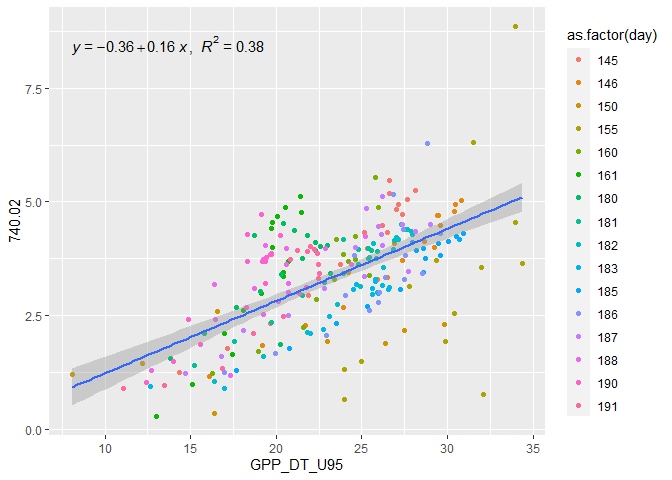
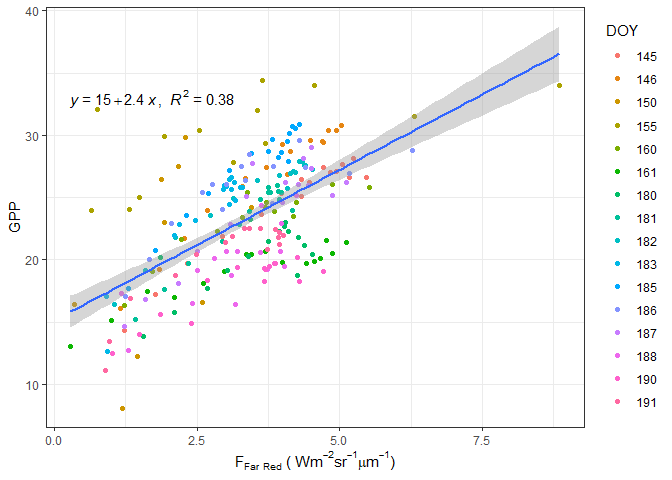
new changes

diff --git a/README.md b/README.md
@@ -47,7 +47,7 @@ psd_table <- psd_table |>
     & day!=168 & day!=192  # criteria i
     & day!= 147 & day != 148 & day!=149  & day!=157 & day!=163
     & day!=172 & day!=175 & day!=176 & day!=179 & day!=184 & day!=189
-    & day!=193
+    & day!=193 & day!= 199 & day!=200 & day!=201
   )
 ```
 
@@ -84,7 +84,7 @@ for(i in 2:length(result)){
   }
 }
 
-row.names(fint) <- seq(1:366)
+row.names(fint) <- seq(1:(nrow(fint)))
 colnames(fint) <- "Fint"
 
 ## Now we are gonna add the integral in the final dataset
@@ -92,14 +92,14 @@ colnames(fint) <- "Fint"
 psd_table <- cbind(psd_table,fint)
 
 ######
-fint_t <- vector("numeric", length = 367)
+fint_t <- vector("numeric", length = ncol(spect_tab))
 
-fint_t[2:367] <- t(fint)
+fint_t[2:ncol(spect_tab)] <- t(fint)
 
 spect_tab[683, ] <- fint_t
 
-gpp <- vector("numeric", length =367)
-gpp[2:367] <- psd_table$GPP_DT_U95
+gpp <- vector("numeric", length = ncol(spect_tab))
+gpp[2:ncol(spect_tab)] <- psd_table$GPP_DT_U95
 spect_tab[684, ] <- gpp
 
 for(i in 2:ncol(spect_tab)){
@@ -139,7 +139,9 @@ correl[,2] <- spect_tab$spect
 correl[-c(683:684),] |>
   ggplot2::ggplot(ggplot2::aes(x=as.numeric(V2), y = cor))+
   ggplot2::geom_point()+
-  ggplot2::xlab(label="Fluorescence Spectra in nm")
+  ggplot2::xlab(label="Fluorescence Spectra in nm")+
+  ggplot2::ylab(label="Pearson's Correlation")+
+  ggplot2::theme_classic()
 ```
 
 ![](README_files/figure-gfm/unnamed-chunk-5-1.png)<!-- -->
@@ -206,11 +208,13 @@ csd_table <- readr::read_rds("data-raw/base_csd.rds")
 
 ``` r
 csd_table |> 
-  ggplot2::ggplot(ggplot2::aes(x=GPP_DT_U95, y= Fint))+
+  ggplot2::ggplot(ggplot2::aes(x=Fint,y=GPP_DT_U95))+
   ggplot2::geom_jitter(ggplot2::aes(colour=as.factor(day)))+
   ggplot2::geom_smooth(method = "lm")+
   ggpubr::stat_regline_equation(ggplot2::aes(
-  label =  paste(..eq.label.., ..rr.label.., sep = "*plain(\",\")~~")))
+  label =  paste(..eq.label.., ..rr.label.., sep = "*plain(\",\")~~")))+
+  ggplot2::labs(colour="DOY", x =expression(paste("F" [integral]," ( ",Wm^-2, sr^-1,mu,m^-1,")")), y= "GPP")+
+  ggplot2::theme_bw()
 ```
 
 ![](README_files/figure-gfm/unnamed-chunk-9-1.png)<!-- -->
@@ -224,11 +228,13 @@ psd_table |> dplyr::mutate(
     )
   ) |>
   dplyr::filter(Period == "A" | Period == "B") |>
-  ggplot2::ggplot(ggplot2::aes(x=GPP_DT_U95, y= Fint))+
+  ggplot2::ggplot(ggplot2::aes(x=Fint,y=GPP_DT_U95))+
   ggplot2::geom_jitter(ggplot2::aes(colour=as.factor(day)))+
   ggplot2::geom_smooth(method = "lm")+
   ggpubr::stat_regline_equation(ggplot2::aes(
-  label =  paste(..eq.label.., ..rr.label.., sep = "*plain(\",\")~~")))
+  label =  paste(..eq.label.., ..rr.label.., sep = "*plain(\",\")~~")))+
+  ggplot2::labs(colour="DOY", x =expression(paste("F" [integral]," ( ",Wm^-2, sr^-1,mu,m^-1,")")), y= "GPP")+
+  ggplot2::theme_bw()
 ```
 
 ![](README_files/figure-gfm/unnamed-chunk-10-1.png)<!-- -->
@@ -237,11 +243,13 @@ psd_table |> dplyr::mutate(
 
 ``` r
 csd_table |> 
-  ggplot2::ggplot(ggplot2::aes(x=GPP_DT_U95, y= `685.09`))+
+  ggplot2::ggplot(ggplot2::aes(y=GPP_DT_U95, x= `685.09`))+
   ggplot2::geom_jitter(ggplot2::aes(colour=as.factor(day)))+
   ggplot2::geom_smooth(method = "lm")+
   ggpubr::stat_regline_equation(ggplot2::aes(
-  label =  paste(..eq.label.., ..rr.label.., sep = "*plain(\",\")~~")))
+  label =  paste(..eq.label.., ..rr.label.., sep = "*plain(\",\")~~")))+
+  ggplot2::labs(colour="DOY", x =expression(paste("F"[red]," ( ",Wm^-2, sr^-1,mu,m^-1,")")), y= "GPP")+
+  ggplot2::theme_bw()
 ```
 
 ![](README_files/figure-gfm/unnamed-chunk-11-1.png)<!-- -->
@@ -256,11 +264,13 @@ psd_table |>
     )
   ) |>
   dplyr::filter(Period == "A" | Period == "B") |>
-  ggplot2::ggplot(ggplot2::aes(x=GPP_DT_U95, y= `685.09`))+
+  ggplot2::ggplot(ggplot2::aes(y=GPP_DT_U95, x= `685.09`))+
   ggplot2::geom_jitter(ggplot2::aes(colour=as.factor(day)))+
   ggplot2::geom_smooth(method = "lm")+
   ggpubr::stat_regline_equation(ggplot2::aes(
-  label =  paste(..eq.label.., ..rr.label.., sep = "*plain(\",\")~~")))
+  label =  paste(..eq.label.., ..rr.label.., sep = "*plain(\",\")~~")))+
+  ggplot2::labs(colour="DOY", x =expression(paste("F"[red]," ( ",Wm^-2, sr^-1,mu,m^-1,")")), y= "GPP")+
+  ggplot2::theme_bw()
 ```
 
 ![](README_files/figure-gfm/unnamed-chunk-12-1.png)<!-- -->
@@ -269,11 +279,13 @@ psd_table |>
 
 ``` r
 csd_table |> 
-  ggplot2::ggplot(ggplot2::aes(x=GPP_DT_U95, y= `740.02`))+
+  ggplot2::ggplot(ggplot2::aes(y=GPP_DT_U95, x= `740.02`))+
   ggplot2::geom_jitter(ggplot2::aes(colour=as.factor(day)))+
   ggplot2::geom_smooth(method = "lm")+
   ggpubr::stat_regline_equation(ggplot2::aes(
-  label =  paste(..eq.label.., ..rr.label.., sep = "*plain(\",\")~~")))
+  label =  paste(..eq.label.., ..rr.label.., sep = "*plain(\",\")~~")))+
+  ggplot2::labs(colour="DOY", x =expression(paste("F"[Far]," "[Red]," ( ",Wm^-2, sr^-1,mu,m^-1,")")), y= "GPP")+
+  ggplot2::theme_bw()
 ```
 
 ![](README_files/figure-gfm/unnamed-chunk-13-1.png)<!-- -->
@@ -288,11 +300,13 @@ psd_table |>
     )
   ) |>
   dplyr::filter(Period == "A" | Period == "B") |>
-  ggplot2::ggplot(ggplot2::aes(x=GPP_DT_U95, y= `740.02`))+
+  ggplot2::ggplot(ggplot2::aes(y=GPP_DT_U95, x= `740.02`))+
   ggplot2::geom_jitter(ggplot2::aes(colour=as.factor(day)))+
   ggplot2::geom_smooth(method = "lm")+
   ggpubr::stat_regline_equation(ggplot2::aes(
-  label =  paste(..eq.label.., ..rr.label.., sep = "*plain(\",\")~~")))
+  label =  paste(..eq.label.., ..rr.label.., sep = "*plain(\",\")~~")))+
+  ggplot2::labs(colour="DOY", x =expression(paste("F"[Far]," "[Red]," ( ",Wm^-2, sr^-1,mu,m^-1,")")), y= "GPP")+
+  ggplot2::theme_bw()
 ```
 
 ![](README_files/figure-gfm/unnamed-chunk-14-1.png)<!-- -->
@@ -315,7 +329,8 @@ psd_table|>
   ggplot2::geom_smooth(method = "lm")+
   ggpubr::stat_regline_equation(ggplot2::aes(
   label =  paste(..eq.label.., ..rr.label.., sep = "*plain(\",\")~~")))+
-  ggplot2::theme_classic()
+  ggplot2::labs( x =expression(paste("F"[integral]," ( ",Wm^-2, sr^-1,mu,m^-1,")")), y= "GPP")+
+  ggplot2::theme_bw()
 ```
 
 ![](README_files/figure-gfm/unnamed-chunk-15-1.png)<!-- -->
@@ -324,11 +339,13 @@ psd_table|>
 
 ``` r
 csd_table |> 
-  ggplot2::ggplot(ggplot2::aes(x=Fy, y= LUE))+
+  ggplot2::ggplot(ggplot2::aes(y=Fy, x= LUE))+
   ggplot2::geom_jitter(ggplot2::aes(colour=as.factor(day)))+
   ggplot2::geom_smooth(method = "lm")+
   ggpubr::stat_regline_equation(ggplot2::aes(
-  label =  paste(..eq.label.., ..rr.label.., sep = "*plain(\",\")~~")))
+  label =  paste(..eq.label.., ..rr.label.., sep = "*plain(\",\")~~")))+
+  ggplot2::labs(colour="DOY", y =expression('F'[yield]), x= "LUE")+
+  ggplot2::theme_bw()
 ```
 
 ![](README_files/figure-gfm/unnamed-chunk-16-1.png)<!-- -->
@@ -344,13 +361,14 @@ psd_table |>
   ) |>
   dplyr::filter(Period == "A" | Period == "B") |>
   dplyr::filter(LUE > 0) |>
-  ggplot2::ggplot(ggplot2::aes(x=Fy, y= LUE))+
+  ggplot2::ggplot(ggplot2::aes(y=Fy, x= LUE))+
   ggplot2::geom_jitter(ggplot2::aes(colour=as.factor(day)))+
   ggplot2::geom_smooth(method = "lm")+
   ggpubr::stat_regline_equation(ggplot2::aes(
   label =  paste(..eq.label.., ..rr.label.., sep = "*plain(\",\")~~")))+
-   ggplot2::xlim(0,3)+
-  ggplot2::ylim(0,.5)+
+  ggplot2::labs(colour="DOY", y =expression('F'[yield]), x= "LUE")+
+   ggplot2::xlim(0,.5)+
+  ggplot2::ylim(0,3)+
   ggplot2::theme_bw()
 ```
 
@@ -542,7 +560,8 @@ And here we can made some plots to see how our data is now
 correl[-c(683:684),] |>
   ggplot2::ggplot(ggplot2::aes(x=as.numeric(V2), y = cor))+
   ggplot2::geom_point()+
-  ggplot2::xlab(label="Fluorescence Spectra in nm")
+  ggplot2::labs(x="Fluorescence Spectra in nm", y="Pearson's Correlation")+
+  ggplot2::theme_classic()
 ```
 
 ![](README_files/figure-gfm/unnamed-chunk-25-1.png)<!-- -->
@@ -571,13 +590,15 @@ df_tab <- df_final|>
 
 df_tab |> 
   dplyr::mutate(
-    Frc_y= `685.09`/csd_table$aPAR,
+    Frc_y= Fint/csd_table$aPAR,
     Fy = csd_table$Fy) |> 
   ggplot2::ggplot(ggplot2::aes(x=Fy, y=Frc_y))+
   ggplot2::geom_jitter(ggplot2::aes(col=as.factor(day)))+
   ggplot2::geom_smooth(method = "lm")+
   ggpubr::stat_regline_equation(ggplot2::aes(
-    label =  paste(..eq.label.., ..rr.label.., sep = "*plain(\",\")~~")))
+    label =  paste(..eq.label.., ..rr.label.., sep = "*plain(\",\")~~")))+
+  ggplot2::labs(colour="DOY",x=expression(paste("F"[yield]," Observed")), y=expression(paste("F"[yield]," Corrected")))+
+  ggplot2::theme_bw()
 ```
 
     ## `geom_smooth()` using formula 'y ~ x'
@@ -588,12 +609,14 @@ df_tab |>
 df_tab |> 
   dplyr::mutate(
     Frc_y= `685.09`/csd_table$aPAR,
-    LUE = csd_table$LUE) |> 
-  ggplot2::ggplot(ggplot2::aes(x=LUE, y=Frc_y))+
+    Fy = csd_table$Fy) |> 
+  ggplot2::ggplot(ggplot2::aes(x=Fy, y=Frc_y))+
   ggplot2::geom_jitter(ggplot2::aes(col=as.factor(day)))+
   ggplot2::geom_smooth(method = "lm")+
   ggpubr::stat_regline_equation(ggplot2::aes(
-    label =  paste(..eq.label.., ..rr.label.., sep = "*plain(\",\")~~")))
+    label =  paste(..eq.label.., ..rr.label.., sep = "*plain(\",\")~~")))+
+  ggplot2::labs(colour="DOY",x=expression(paste("F"[yield]," Observed")), y=expression(paste("F 685"[yield]," Corrected")))+
+  ggplot2::theme_bw()
 ```
 
     ## `geom_smooth()` using formula 'y ~ x'
@@ -601,12 +624,32 @@ df_tab |>
 ![](README_files/figure-gfm/unnamed-chunk-28-1.png)<!-- -->
 
 ``` r
+df_tab |> 
+  dplyr::mutate(
+    Frc_y= Fint/csd_table$aPAR,
+    Fy = csd_table$LUE) |> 
+  ggplot2::ggplot(ggplot2::aes(x=Fy, y=Frc_y))+
+  ggplot2::geom_jitter(ggplot2::aes(col=as.factor(day)))+
+  ggplot2::geom_smooth(method = "lm")+
+  ggpubr::stat_regline_equation(ggplot2::aes(
+    label =  paste(..eq.label.., ..rr.label.., sep = "*plain(\",\")~~")))+
+  ggplot2::labs(colour="DOY",x="LUE", y=expression(paste("F"[yield]," Corrected")))+
+  ggplot2::theme_bw()
+```
+
+    ## `geom_smooth()` using formula 'y ~ x'
+
+![](README_files/figure-gfm/unnamed-chunk-29-1.png)<!-- -->
+
+``` r
 df_tab|>
   ggplot2::ggplot(ggplot2::aes(x=GPP_DT_U95, y= `685.09`))+
   ggplot2::geom_jitter(ggplot2::aes(colour=as.factor(day)))+
   ggplot2::geom_smooth(method = "lm")+
   ggpubr::stat_regline_equation(ggplot2::aes(
-    label =  paste(..eq.label.., ..rr.label.., sep = "*plain(\",\")~~")))
+    label =  paste(..eq.label.., ..rr.label.., sep = "*plain(\",\")~~")))+
+  ggplot2::labs(colour="DOY", x="GPP", y=expression(paste("F"[685]," Corrected")))+
+  ggplot2::theme_bw()
 ```
 
-![](README_files/figure-gfm/unnamed-chunk-29-1.png)<!-- -->
+![](README_files/figure-gfm/unnamed-chunk-30-1.png)<!-- -->
